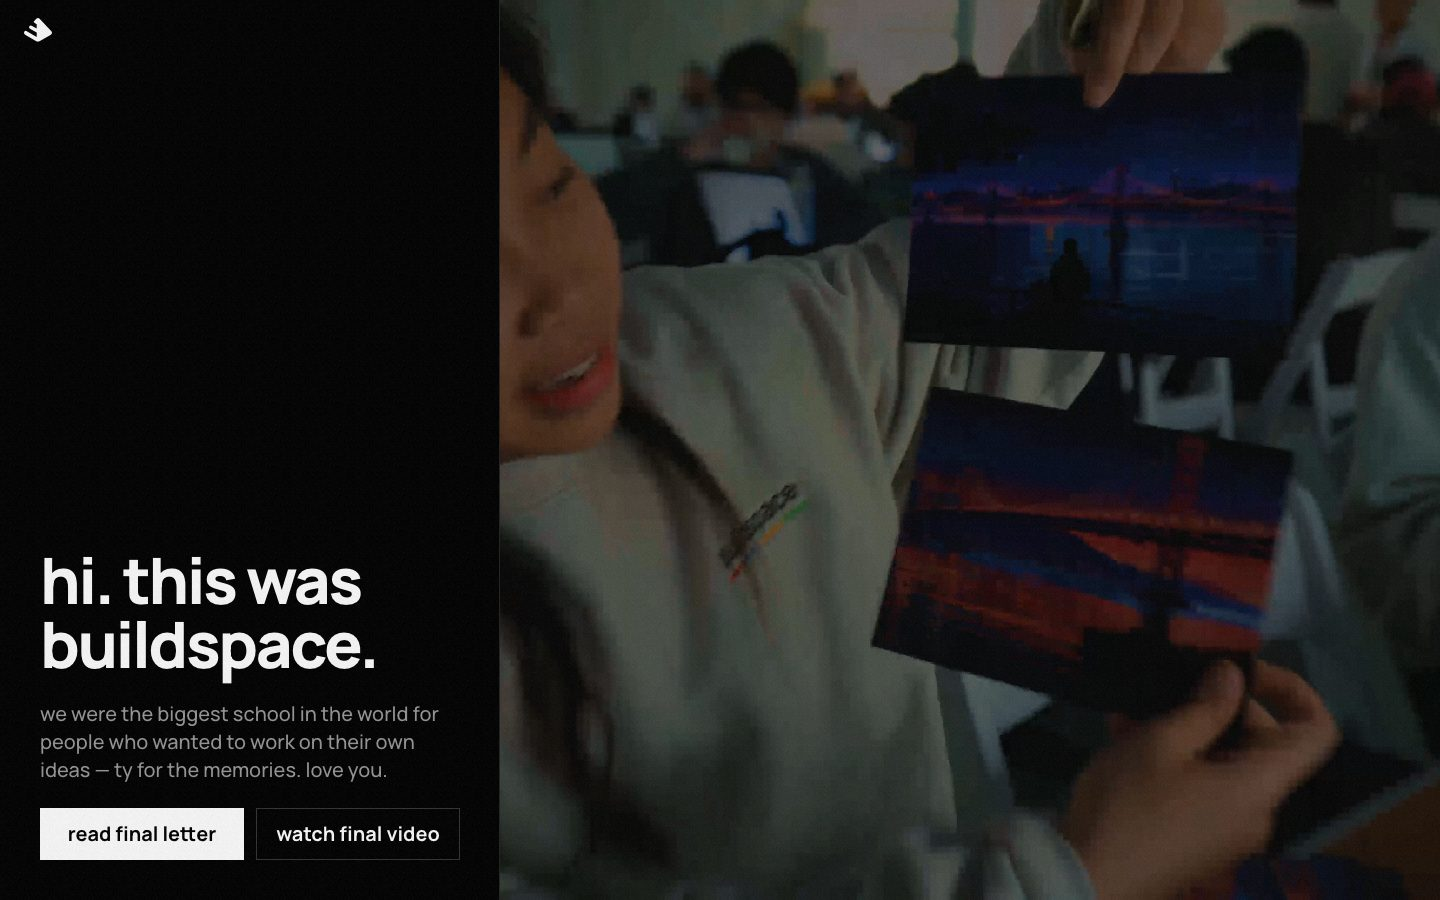
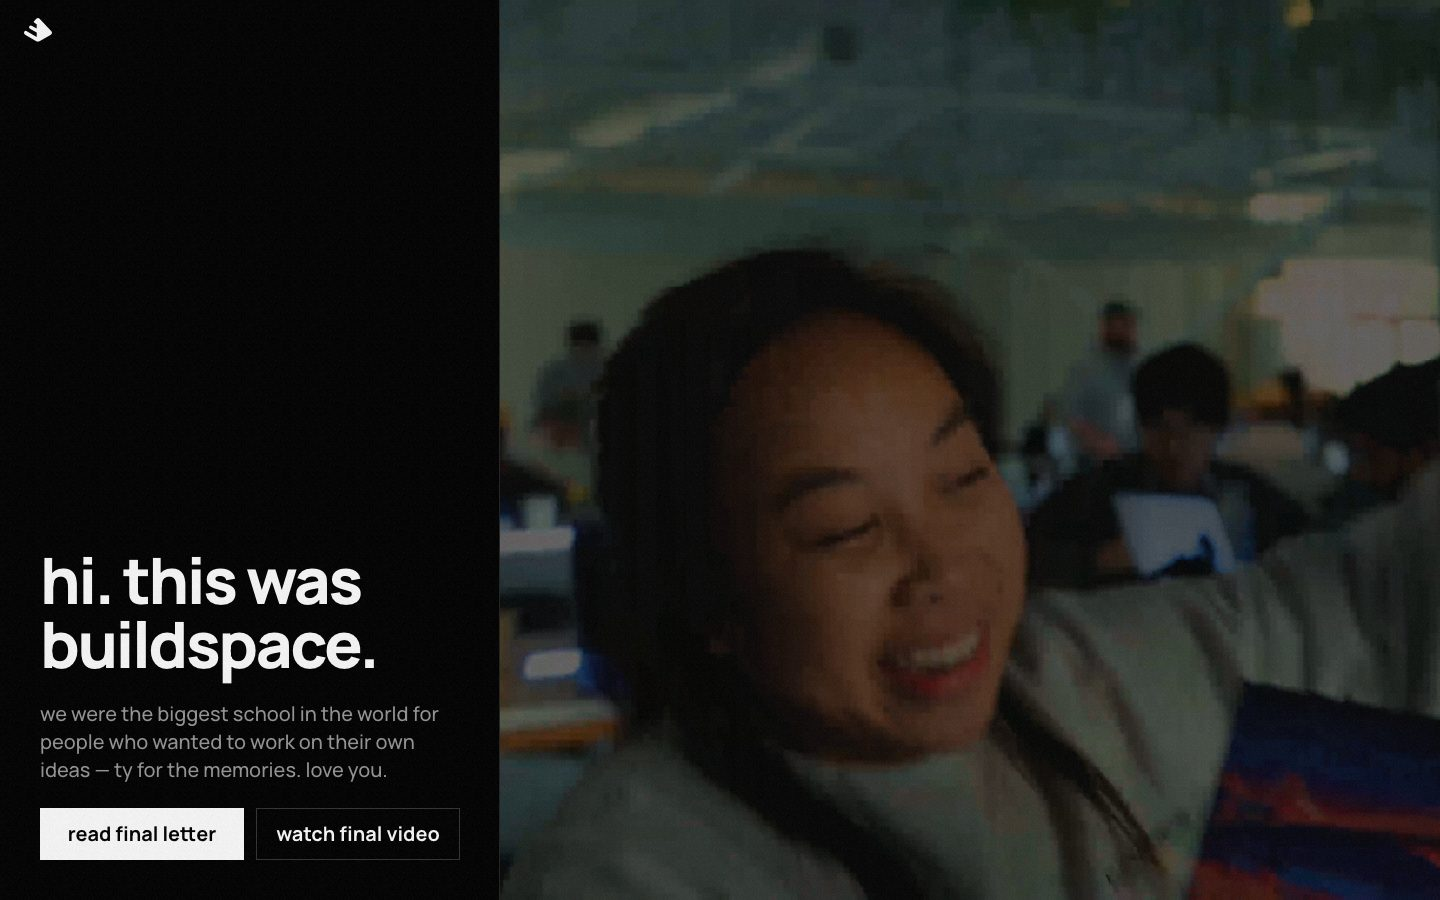
Give each buildspace page its own gallery card
Six cards (homepage, letter, spectate s5, faqs, 2023 recap, s4 demo day)
share the Buildspace folder and open their own route through a new
"entry" field. build-gallery builds a folder once and the viewer, the
thumbnail capture and the docs follow the entry.

diff --git a/gallery/app.js b/gallery/app.js
@@ -28,6 +28,10 @@
   );
   const esc = (s) => String(s).replace(/[&<>"]/g, (c) => ({ '&': '&amp;', '<': '&lt;', '>': '&gt;', '"': '&quot;' })[c]);
   const srcUrl = (s) => `${repo}/tree/${branch}/${s.folder}`;
+  // Several cards can share one folder, each opening a different route inside it
+  // (buildspace's six pages). The first card for a folder is the one that gets built.
+  const siteRoot = (s) => sites.find((x) => x.folder === s.folder) ?? s;
+  const siteUrl = (s) => `sites/${siteRoot(s).slug}${s.entry ?? '/'}`;
   const PLATFORM = { youtube: 'YouTube', x: 'X', linkedin: 'LinkedIn', instagram: 'Instagram' };
   const ICON = {
     youtube: '<svg viewBox="0 0 24 24" width="20" height="20" aria-hidden="true"><path fill="currentColor" d="M23 7.2a3 3 0 0 0-2.1-2.1C19 4.6 12 4.6 12 4.6s-7 0-8.9.5A3 3 0 0 0 1 7.2 31 31 0 0 0 .5 12a31 31 0 0 0 .5 4.8 3 3 0 0 0 2.1 2.1c1.9.5 8.9.5 8.9.5s7 0 8.9-.5a3 3 0 0 0 2.1-2.1 31 31 0 0 0 .5-4.8 31 31 0 0 0-.5-4.8ZM9.8 15.1V8.9l5.8 3.1-5.8 3.1Z"/></svg>',
@@ -378,7 +382,7 @@
       postView.innerHTML = '';
       frame.hidden = false;
       frame.title = kind === 'site' ? `${name} preview` : name;
-      const target = kind === 'site' ? `sites/${item.slug}/` : embedUrl(item);
+      const target = kind === 'site' ? siteUrl(item) : embedUrl(item);
       if (frame.getAttribute('src') !== target) frame.src = target;
     }
   }

diff --git a/Buildspace/README.md b/Buildspace/README.md
@@ -2,16 +2,18 @@
 
 Six pages of [buildspace.so](https://buildspace.so/) kept as they were after the school shut down: the homepage, the final letter, the season 5 spectator page, the FAQs, the 2023 recap and the s4 demo day.
 
-| Page | Route | Reference | Title |
+| Gallery card | Route | Reference | Title |
 | --- | --- | --- | --- |
-| Homepage | `/` | https://buildspace.so/ | buildspace |
-| Final letter | `/letter` | https://buildspace.so/letter | a letter to you. |
-| Spectate s5 | `/nw` | https://buildspace.so/nw | spectate s5 |
-| FAQs | `/faq` | https://buildspace.so/faq | frequently asked questions \| buildspace |
-| 2023 recap | `/hyper` | https://buildspace.so/hyper | hyper honest. |
-| s4 demo day | `/s4/demoday` | https://buildspace.so/s4/demoday | s4 demo day \| buildspace |
+| `buildspace` | `/` | https://buildspace.so/ | buildspace |
+| `buildspace-letter` | `/letter` | https://buildspace.so/letter | a letter to you. |
+| `buildspace-spectate-s5` | `/nw` | https://buildspace.so/nw | spectate s5 |
+| `buildspace-faq` | `/faq` | https://buildspace.so/faq | frequently asked questions \| buildspace |
+| `buildspace-2023-recap` | `/hyper` | https://buildspace.so/hyper | hyper honest. |
+| `buildspace-s4-demoday` | `/s4/demoday` | https://buildspace.so/s4/demoday | s4 demo day \| buildspace |
 
 Captured 2026-11-10 from the live Framer build (`script_main.N6QPR2NJ.mjs`).
+
+**In the gallery this is six cards, not one.** Each page has its own entry in `gallery/sites.json` (`buildspace`, `buildspace-letter`, `buildspace-spectate-s5`, `buildspace-faq`, `buildspace-2023-recap`, `buildspace-s4-demoday`) and its own thumbnail. All six share the `Buildspace` folder and point at their own route through `"entry"`, so the capture stays one build while every page is directly reachable. The pages also still navigate to each other in place.
 
 ## Run locally
 
@@ -121,6 +123,7 @@ The "2023 recap." article by farza majeed (feb 4, 2024) with a full-bleed video 
 - 178 project videos have been deleted from YouTube. The live page paints YouTube's 120×90 "unavailable" image, which arrives with a 404 status but a valid body; those exact bytes are saved locally, so the cards look the same.
 - The demo day page is 28 MB of server-rendered HTML, the same as the original, because all 1,051 cards (four breakpoint variants each) are in the document.
 - `dist/assets` was trimmed from 3,149 to 1,566 files: anything no page or interaction requested was removed. `tools/build.py` restores the full set, and `check.mjs --prune` trims it again.
+- The six gallery cards share one folder, so `/sites/buildspace-letter/` and friends do not exist: those cards open `/sites/buildspace/letter`, `/sites/buildspace/faq`, and so on.
 
 ## Licensing
 

diff --git a/README.md b/README.md
@@ -50,6 +50,8 @@ A push to `main` runs that build and publishes the `gooddesigns` site. The workf
 
 To add a site, append it to `gallery/sites.json` and refresh thumbnails with `npx -p playwright node scripts/capture-thumbs.mjs <slug>` (needs Chrome installed), then commit and push. The build script rewrites root-absolute asset paths (`/assets/...`) so every site works under `/sites/<slug>/`.
 
+A site that is several pages gets one card per page: give every entry the same `folder` and an `entry` route inside it (`"entry": "/letter"`). The folder is built once, under the first entry's slug, and each card's viewer opens its own route. Buildspace is the example.
+
 ## Good Videos
 
 The gallery also has a **Good Videos** tab of YouTube and X videos, next to the sites (`#/videos` links straight to it). They play in the same full-screen viewer, embedded from the platform. To add one:
